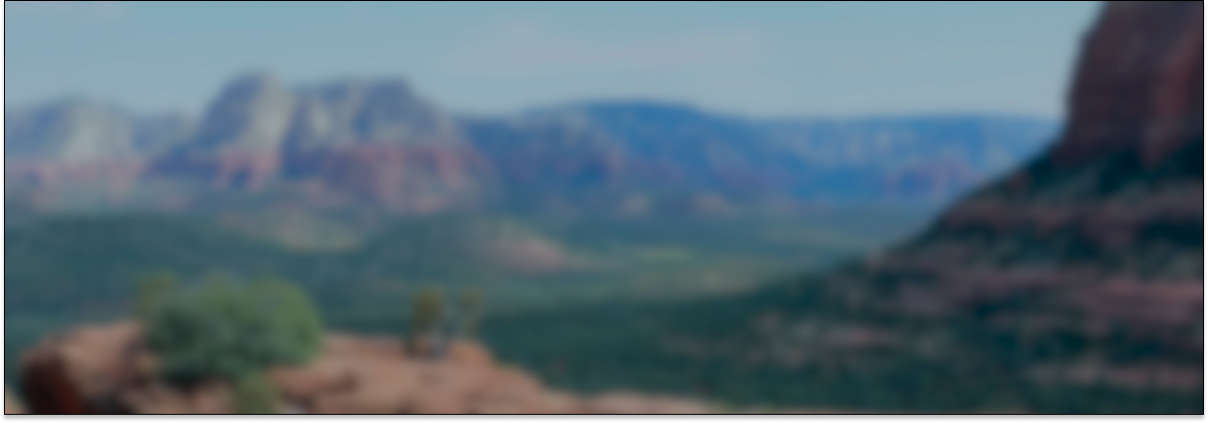
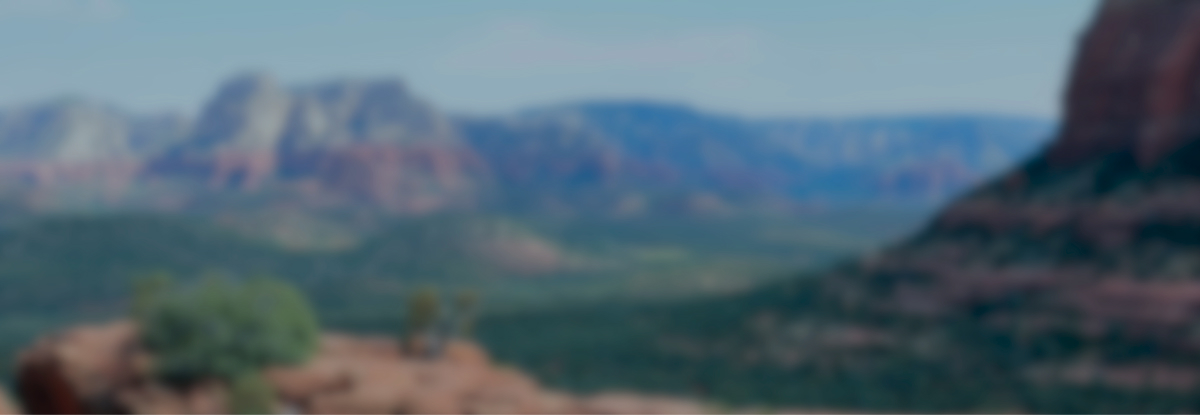
Замена фоновых изображений

diff --git a/catalog.html b/catalog.html
@@ -271,7 +271,7 @@
 
         <section class="newsletter-catalog">
           <h4 class="newsletter-title">Подпишитесь на рассылку</h4>
-          <p class="newsletter-subtitle">Только полезная информация и никакого спама, честное бойскаутское!
+          <p class="newsletter-subtitle">Только полезная информация и никакого спама,<br>честное бойскаутское!
           </p>
           <form class="newsletter-form" action="#" method="post">
             <input placeholder="Ваш e-mail" type="email" name="newsletter-email" class="newsletter-email" required>

diff --git a/styles/styles.css b/styles/styles.css
@@ -76,6 +76,11 @@ ul {
   padding: 0 70px 0 70px;
 }
 
+.main-header-logo {
+  font-size: 0;
+  margin-bottom: -5px;
+}
+
 .navigation-links {
   display: flex;
   background-color: #FFFFFF;
@@ -408,7 +413,6 @@ ul {
 
 .main-inner-filter-section {
   background-image: url("../images/filter-background.jpg");
-  background-size: 100% 100%;
   padding: 35px 70px 70px 70px;
 
 }
